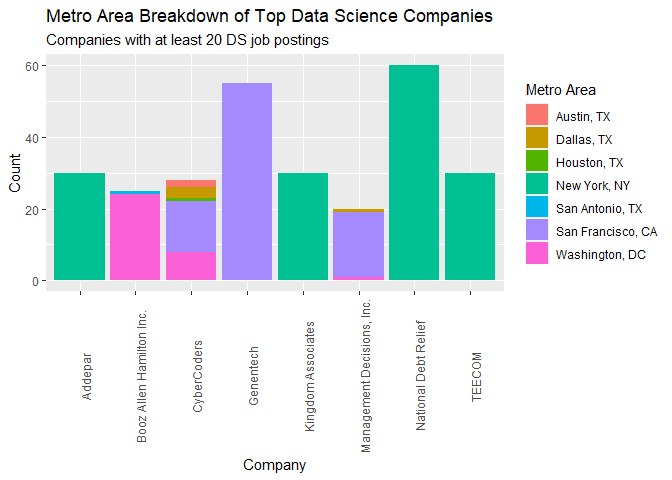
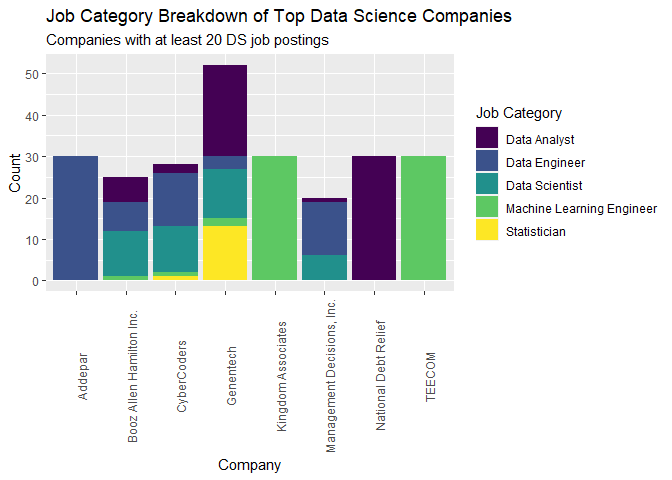
update to industry, job category, metro area, rating, metro area eda

diff --git a/EDA/job_category_and_rating.md b/EDA/job_category_and_rating.md
@@ -20,7 +20,10 @@ library(tidyverse)
 
 ``` r
 library(ggplot2)
+library(viridis)
 ```
+
+    ## Loading required package: viridisLite
 
 ``` r
 setwd('C:/Users/kingl/Desktop/Projects/eda_fall20/final_project/eda20-team4-project/')
@@ -31,7 +34,8 @@ ds_jobs <- read.csv('Data Cleaning/ds_jobs.csv')
 data_jobs <- ds_jobs %>% 
   group_by(job_category) %>% 
   summarize(count = n()) %>% 
-  filter(!job_category %in% c('Biology', 'Consultant', 'Research Scientist', NA))
+  filter(job_category %in% 
+           c('Data Engineer', 'Data Analyst', 'Data Scientist', 'Machine Learning Engineer', 'Statistician'))
 ```
 
     ## `summarise()` ungrouping output (override with `.groups` argument)
@@ -53,7 +57,8 @@ ds_jobs %>%
          company %in% companies$company) %>% 
   group_by(company, job_category) %>% 
   summarize(count = n()) %>% 
-  ggplot(aes(x = company, y = count)) + geom_col(aes(fill = job_category), position = 'dodge2') 
+  ggplot(aes(x = company, y = count)) + geom_col(aes(fill = job_category), position = 'dodge2') +
+  scale_fill_viridis(discrete = TRUE)
 ```
 
     ## `summarise()` regrouping output by 'company' (override with `.groups` argument)
@@ -72,6 +77,18 @@ data_companies <- ds_jobs %>%
     ## `summarise()` ungrouping output (override with `.groups` argument)
 
 ``` r
+data_industries <- ds_jobs %>%
+  filter(job_category %in% data_jobs$job_category) %>% 
+  group_by(industry) %>% 
+  summarize(count = n()) %>% 
+  filter(!is.na(industry)) %>% 
+  arrange(-count) %>% 
+  filter(count >= 100)
+```
+
+    ## `summarise()` ungrouping output (override with `.groups` argument)
+
+``` r
 ds_jobs %>% 
   filter(job_category %in% data_jobs$job_category,
          company %in% data_companies$company) %>% 
@@ -84,12 +101,12 @@ ds_jobs %>%
        subtitle = 'Companies with at least 20 DS job postings',
        x = 'Company',
        y = 'Count') +
-  scale_fill_discrete(name = 'Job Category')
+  scale_fill_viridis(discrete = TRUE, name = 'Job Category')
 ```
 
     ## `summarise()` regrouping output by 'company' (override with `.groups` argument)
 
-![](job_category_and_rating_files/figure-gfm/unnamed-chunk-7-1.png)<!-- -->
+![](job_category_and_rating_files/figure-gfm/unnamed-chunk-8-1.png)<!-- -->
 
 ``` r
 ds_jobs %>% 
@@ -104,12 +121,12 @@ ds_jobs %>%
        subtitle = 'Companies with at least 20 DS job postings',
        x = 'Company',
        y = 'Count') +
-  scale_fill_discrete(name = 'Metro Area')
+  scale_fill_viridis(discrete = TRUE, name = 'Metro Area')
 ```
 
     ## `summarise()` regrouping output by 'company' (override with `.groups` argument)
 
-![](job_category_and_rating_files/figure-gfm/unnamed-chunk-8-1.png)<!-- -->
+![](job_category_and_rating_files/figure-gfm/unnamed-chunk-9-1.png)<!-- -->
 
 ``` r
 ds_jobs %>% 
@@ -122,13 +139,52 @@ ds_jobs %>%
   theme(axis.text.x = element_text(angle = 90)) +
   labs(title = 'Metro Area Breakdown of Data Science Job Categories',
        x = 'Metro Area',
-       y = 'Count') +
-  scale_fill_discrete(name = 'Job Category')
+       y = 'Percent of Jobs') +
+  scale_fill_viridis(discrete = TRUE, name = 'Job Category')
 ```
 
     ## `summarise()` regrouping output by 'metro_location' (override with `.groups` argument)
 
-![](job_category_and_rating_files/figure-gfm/unnamed-chunk-9-1.png)<!-- -->
+![](job_category_and_rating_files/figure-gfm/unnamed-chunk-10-1.png)<!-- -->
+
+``` r
+ds_jobs %>% 
+  filter(job_category %in% data_jobs$job_category) %>% 
+  group_by(metro_location, job_category) %>% 
+  summarize(count = n()) %>% 
+  mutate(pct = count/sum(count) * 100) %>% 
+  ggplot(aes(x = metro_location, y = count)) + 
+  geom_col(aes(fill = job_category)) +
+  theme(axis.text.x = element_text(angle = 90)) +
+  labs(title = 'Metro Area Breakdown of Data Science Job Categories',
+       x = 'Metro Area',
+       y = 'Count') +
+  scale_fill_viridis(discrete = TRUE, name = 'Job Category')
+```
+
+    ## `summarise()` regrouping output by 'metro_location' (override with `.groups` argument)
+
+![](job_category_and_rating_files/figure-gfm/unnamed-chunk-11-1.png)<!-- -->
+
+``` r
+ds_jobs %>% 
+  filter(job_category %in% data_jobs$job_category) %>% 
+  group_by(metro_location) %>% 
+  summarize(count = n())
+```
+
+    ## `summarise()` ungrouping output (override with `.groups` argument)
+
+    ## # A tibble: 7 x 2
+    ##   metro_location    count
+    ##   <chr>             <int>
+    ## 1 Austin, TX          153
+    ## 2 Dallas, TX          227
+    ## 3 Houston, TX          76
+    ## 4 New York, NY        120
+    ## 5 San Antonio, TX      44
+    ## 6 San Francisco, CA   747
+    ## 7 Washington, DC      724
 
 ``` r
 ds_jobs %>% 
@@ -137,9 +193,9 @@ ds_jobs %>%
   geom_boxplot()
 ```
 
-    ## Warning: Removed 204 rows containing non-finite values (stat_boxplot).
+    ## Warning: Removed 197 rows containing non-finite values (stat_boxplot).
 
-![](job_category_and_rating_files/figure-gfm/unnamed-chunk-10-1.png)<!-- -->
+![](job_category_and_rating_files/figure-gfm/unnamed-chunk-13-1.png)<!-- -->
 
 ``` r
 ds_jobs %>% 
@@ -149,12 +205,12 @@ ds_jobs %>%
   labs(title = 'Glassdoor Rating Density Plot by Metro Area',
        x = 'Rating',
        y = 'Density') +
-  scale_fill_discrete(name = 'Metro Area')
+  scale_fill_viridis(discrete = TRUE, name = 'Metro Area')
 ```
 
-    ## Warning: Removed 204 rows containing non-finite values (stat_density).
+    ## Warning: Removed 197 rows containing non-finite values (stat_density).
 
-![](job_category_and_rating_files/figure-gfm/unnamed-chunk-11-1.png)<!-- -->
+![](job_category_and_rating_files/figure-gfm/unnamed-chunk-14-1.png)<!-- -->
 
 ``` r
 ds_jobs %>% 
@@ -164,9 +220,37 @@ ds_jobs %>%
   labs(title = 'Glassdoor Rating Density Plot by Job Category',
        x = 'Rating',
        y = 'Density') +
-  scale_fill_discrete(name = 'Job Category')  
+  scale_fill_viridis(discrete = TRUE, name = 'Job Category')
 ```
 
-    ## Warning: Removed 204 rows containing non-finite values (stat_density).
+    ## Warning: Removed 197 rows containing non-finite values (stat_density).
 
-![](job_category_and_rating_files/figure-gfm/unnamed-chunk-12-1.png)<!-- -->
+![](job_category_and_rating_files/figure-gfm/unnamed-chunk-15-1.png)<!-- -->
+
+``` r
+ds_jobs %>% 
+  filter(job_category %in% data_jobs$job_category,
+         industry %in% data_industries$industry) %>% 
+  ggplot(aes(x = rating)) + 
+  geom_density(aes(fill = industry), alpha = .5) +
+  labs(title = 'Glassdoor Rating Density Plot by Industry',
+       x = 'Rating',
+       y = 'Density') +
+  scale_fill_viridis(discrete = TRUE, name = 'Job Category')
+```
+
+    ## Warning: Removed 25 rows containing non-finite values (stat_density).
+
+![](job_category_and_rating_files/figure-gfm/unnamed-chunk-16-1.png)<!-- -->
+
+``` r
+ds_jobs %>% 
+  filter(job_category %in% data_jobs$job_category,
+         industry %in% data_industries$industry) %>% 
+  ggplot(aes(x = industry, y = rating)) + 
+  geom_violin()
+```
+
+    ## Warning: Removed 25 rows containing non-finite values (stat_ydensity).
+
+![](job_category_and_rating_files/figure-gfm/unnamed-chunk-16-2.png)<!-- -->
